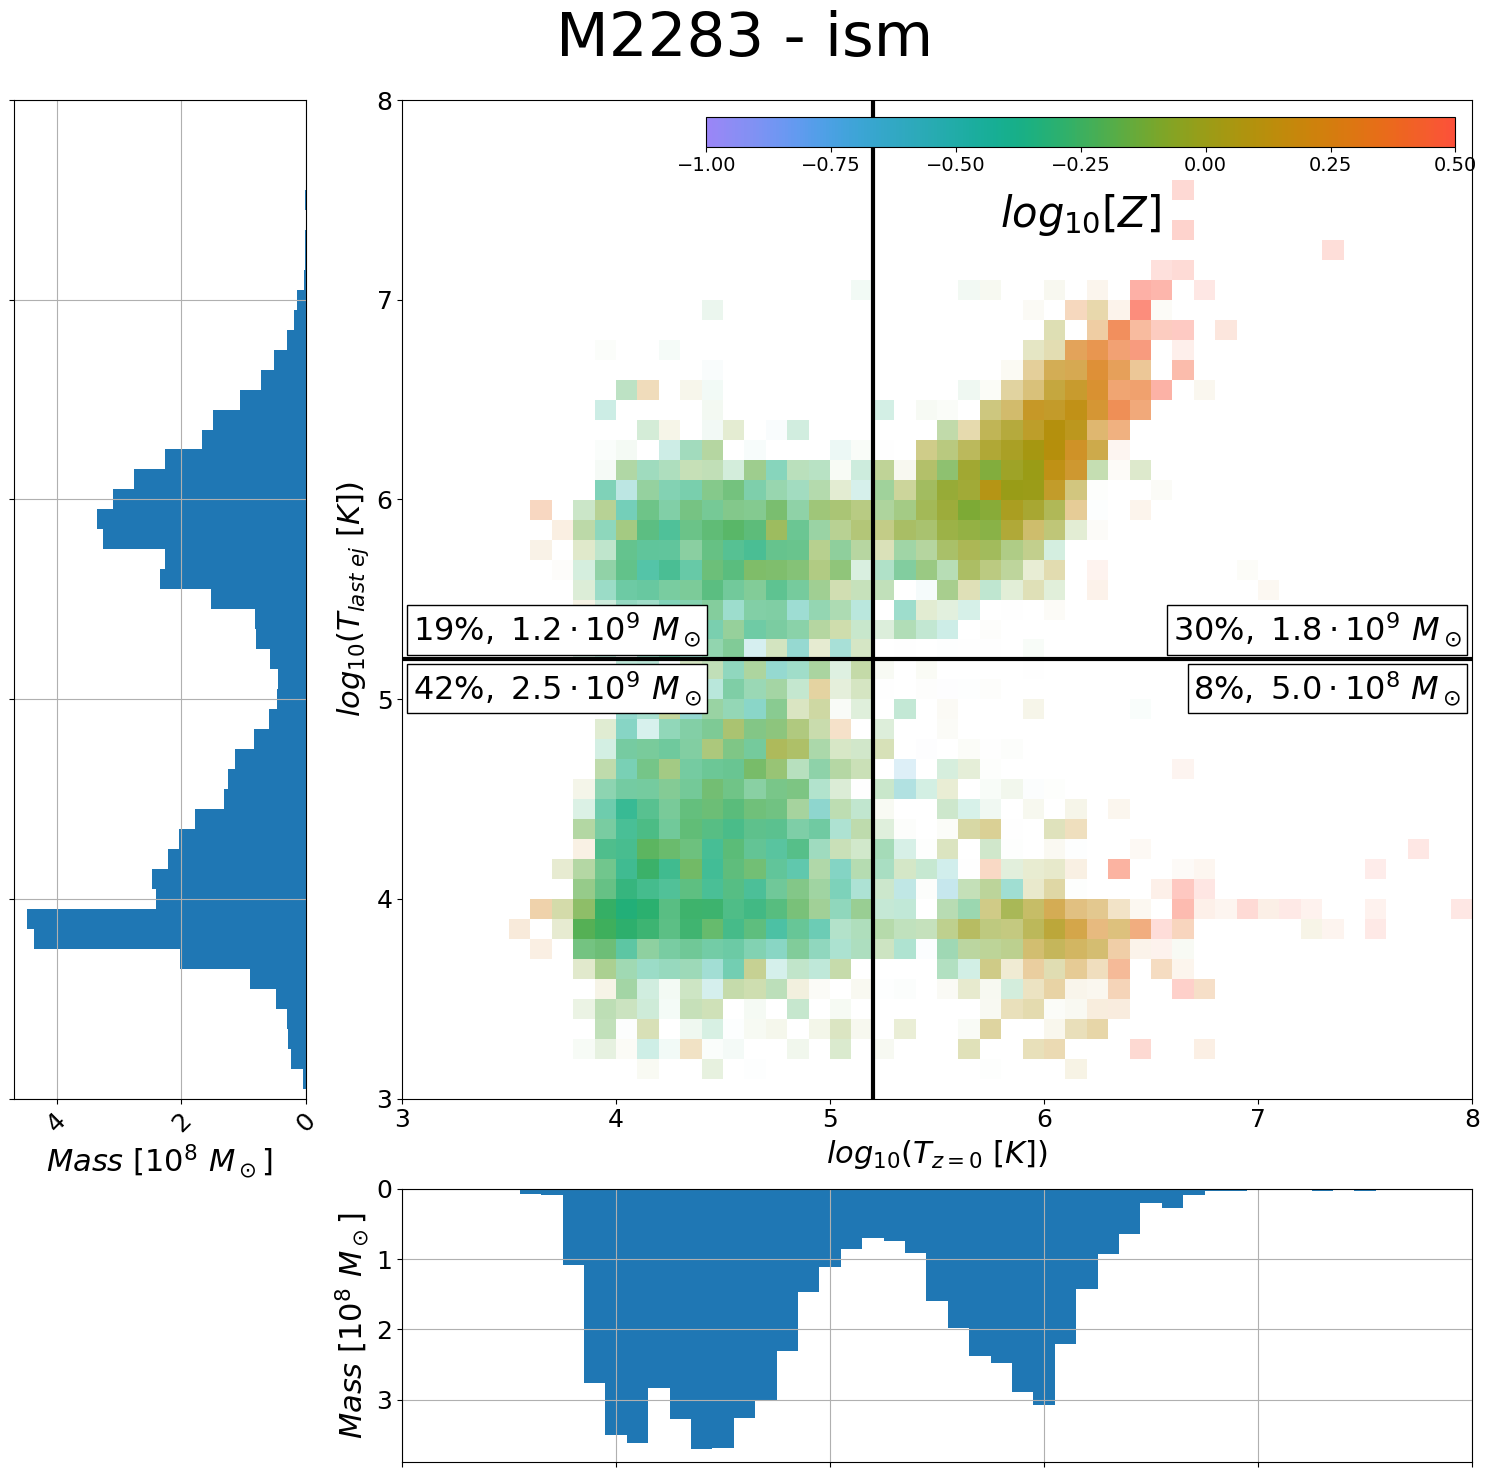
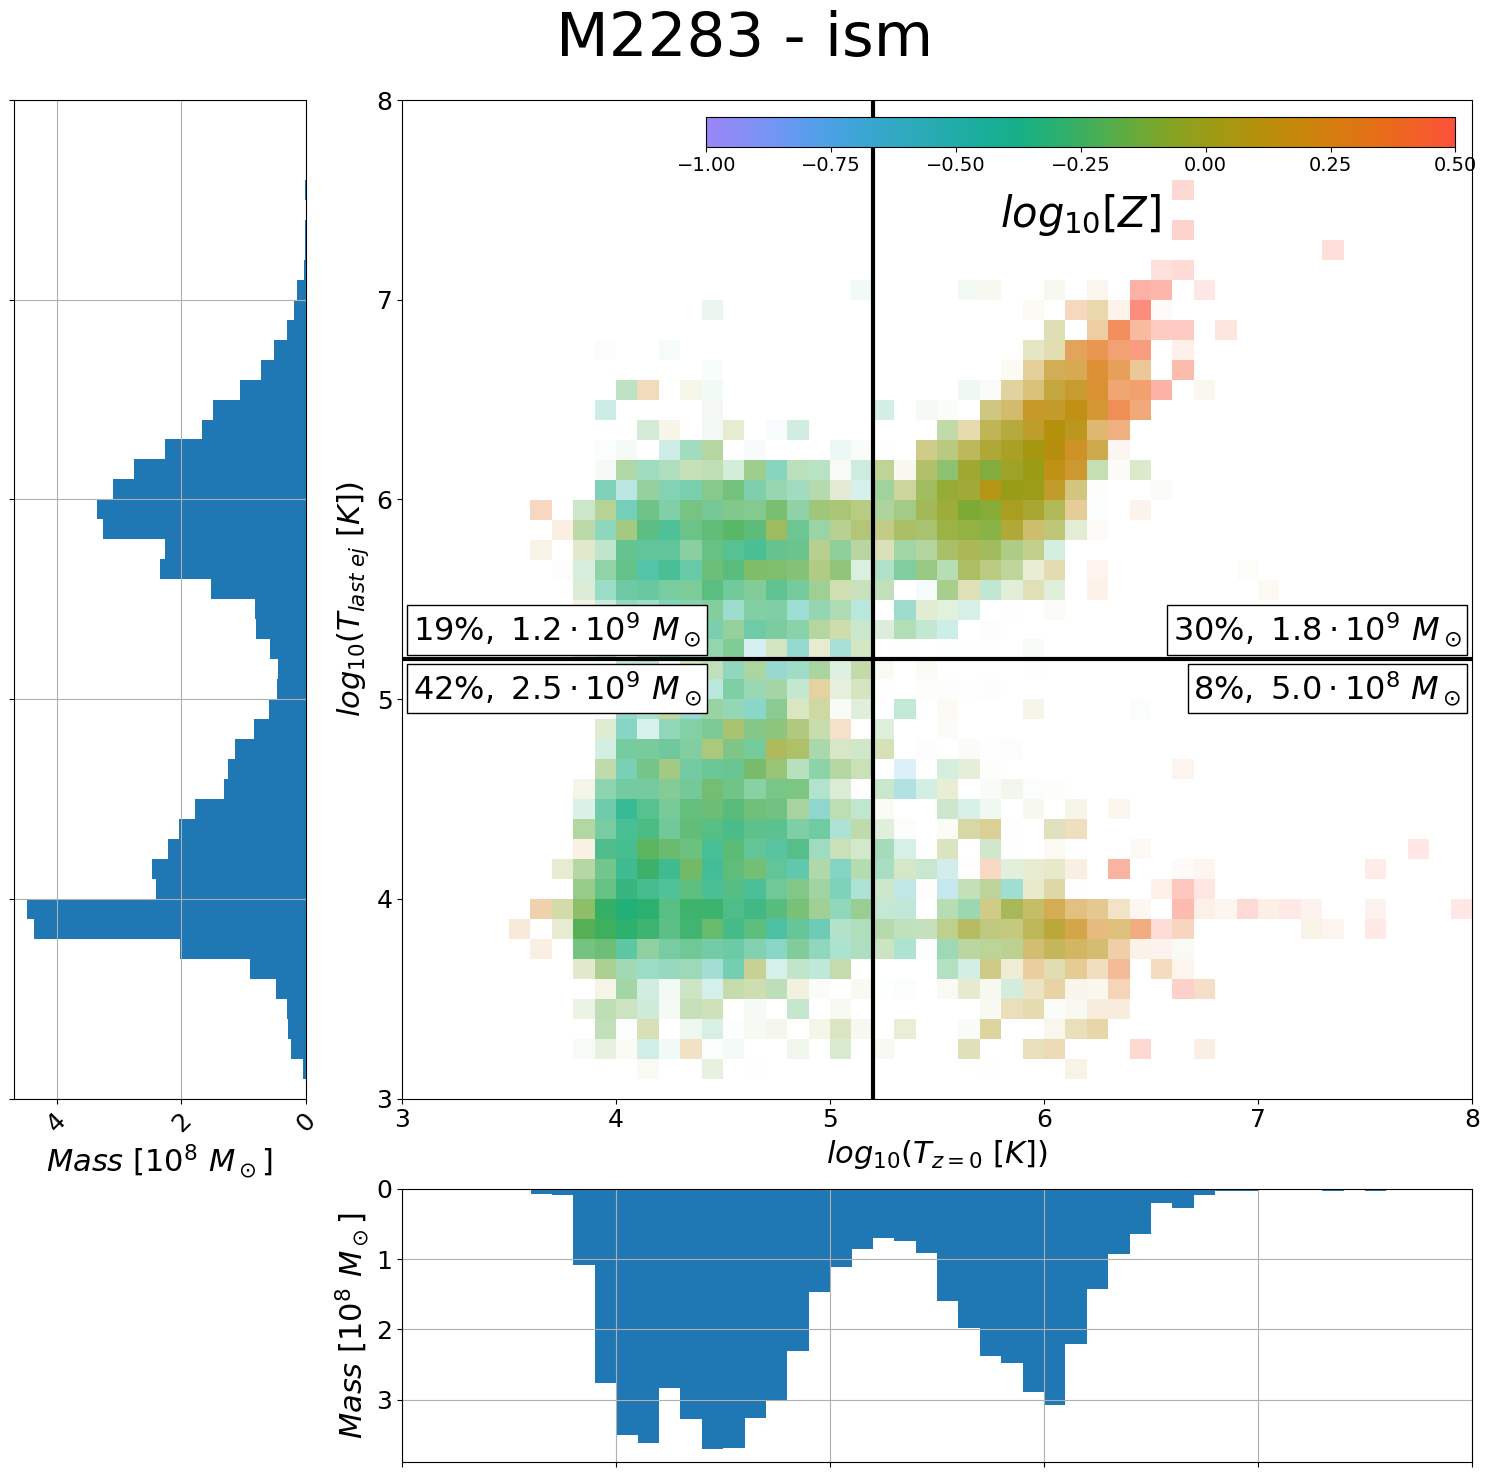
T_z0_vs_ej fix matplotlib 2 bar behaviour

diff --git a/1/T_z0_vs_ejection.py b/1/T_z0_vs_ejection.py
@@ -8,8 +8,6 @@ import glob
 from multiprocessing import Pool
 import utils
 
-#plt.style.use('general')
-
 filename = __file__
 
 def plot(args):
@@ -83,14 +81,14 @@ def plot(args):
 
 
     ax2.set_xlabel(r'$Mass\ [10^8\ M_\odot]$')
-    ax2.barh(edges[:-1], mass_last_T / 1e8, height=np.diff(edges))
+    ax2.barh(edges[:-1], mass_last_T / 1e8, height=np.diff(edges), align='edge')
     ax2.set_xlim(ax2.get_xlim()[::-1])
     ax2.set_ylim(limits)
     ax2.tick_params(labelleft='off')    
     plt.setp(ax2.xaxis.get_majorticklabels(), rotation=45)
 
     ax3.set_ylabel(r'$Mass\ [10^8\ M_\odot]$')
-    ax3.bar(edges[:-1], mass_z0 / 1e8, width=np.diff(edges))
+    ax3.bar(edges[:-1], mass_z0 / 1e8, width=np.diff(edges), align='edge')
     ax3.set_ylim(ax3.get_ylim()[::-1])
     ax3.set_xlim(limits)
     ax3.tick_params(labelbottom='off')
